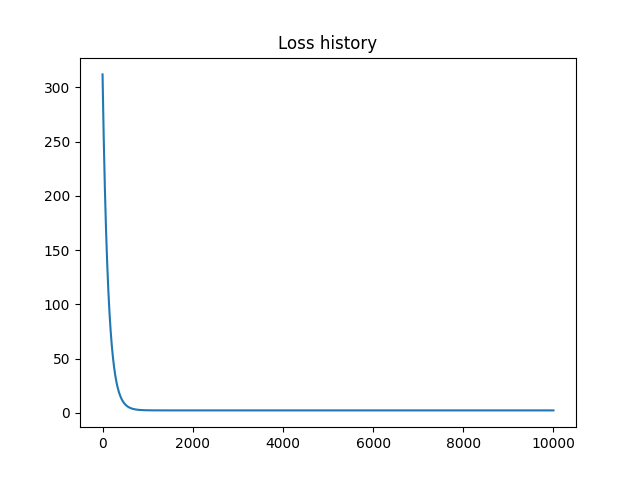
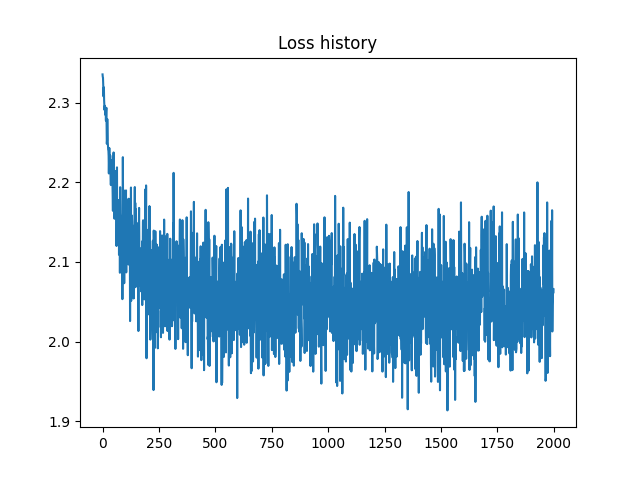
Ex_2

diff --git a/src/seminar2.py b/src/seminar2.py
@@ -3,7 +3,7 @@ import datetime
 import os.path
 
 import numpy as np
-from src.test_utils import get_preprocessed_data, visualize_weights, visualize_loss
+from test_utils import get_preprocessed_data, visualize_weights, visualize_loss
 
 
 def softmax(Z: np.array) -> np.array:
@@ -13,7 +13,10 @@ def softmax(Z: np.array) -> np.array:
     :param Z: 2D array, shape (N, C)
     :return: softmax 2D array, shape (N, C)
     """
-    return Z
+    exps = np.exp(Z)
+    exps_sum = exps.sum(axis=-1, keepdims=True)
+
+    return exps / exps_sum
 
 
 def softmax_loss_and_grad(W: np.array, X: np.array, y: np.array, reg: float) -> tuple:
@@ -31,13 +34,19 @@ def softmax_loss_and_grad(W: np.array, X: np.array, y: np.array, reg: float) -> 
     dL_dW = np.zeros_like(W)
     # *****START OF YOUR CODE*****
     # 1. Forward pass, compute loss as sum of data loss and regularization loss [sum(W ** 2)]
-
+    N = len(X)
+    Z = np.dot(X, W)
+    S = softmax(Z)
     # 2. Backward pass, compute intermediate dL/dZ
-
+    loss = - np.log(S[range(N), y]).mean()
+    loss += np.sum(W**2)
+    dz = S.copy()
+    dz[range(N), y] -=1
     # 3. Compute data gradient dL/dW
-
+    dL_dW = X.T @ dz
+    dL_dW /= N
     # 4. Compute regularization gradient
-
+    dL_dW += (2*W)
     # 5. Return loss and sum of data + reg gradients
 
     # *****END OF YOUR CODE*****
@@ -88,7 +97,8 @@ class SoftmaxClassifier:
             # replacement is faster than sampling without replacement.              #
             #########################################################################
             # *****START OF YOUR CODE (DO NOT DELETE/MODIFY THIS LINE)*****
-
+            batch_indices = np.random.choice(num_train, size=batch_size, replace=True)
+            X_batch, y_batch = X[batch_indices, :], y[batch_indices]
             # *****END OF YOUR CODE (DO NOT DELETE/MODIFY THIS LINE)*****
 
             # evaluate loss and gradient
@@ -101,7 +111,7 @@ class SoftmaxClassifier:
             # Update the weights using the gradient and the learning rate.          #
             #########################################################################
             # *****START OF YOUR CODE (DO NOT DELETE/MODIFY THIS LINE)*****
-
+            self.W -= learning_rate * grad
             # *****END OF YOUR CODE (DO NOT DELETE/MODIFY THIS LINE)*****
             if it % 100 == 0:
                 if verbose:
@@ -133,11 +143,11 @@ def train():
     # weights images must look like in lecture slides
 
     # ***** START OF YOUR CODE *****
-    learning_rate = 0
-    reg = 0
-    num_iters = 0
-    batch_size = 0
-    # ******* END OF YOUR CODE ************
+    learning_rate = 0.001
+    reg = 0.001
+    num_iters = 2000
+    batch_size = 128
+    # ******* END OF YOUR CODE ************pipi
 
     (x_train, y_train), (x_test, y_test) = get_preprocessed_data()
     cls = SoftmaxClassifier()

diff --git a/output/seminar2/report.md b/output/seminar2/report.md
@@ -1,14 +1,14 @@
 # Training Softmax classifier  
-datetime: 2023-09-05 20:00:50  
-Well done in: 24 seconds  
-learning_rate = 0  
-reg = 0  
-num_iters = 0  
-batch_size = 0  
+datetime: 2023-10-06 21:36:16  
+Well done in: 2 seconds  
+learning_rate = 0.001  
+reg = 0.001  
+num_iters = 2000  
+batch_size = 128  
 
-Final loss: 2.3024465755633834   
-Train accuracy: 0.24694   
-Test accuracy: 0.2496  
+Final loss: 2.06572824698198   
+Train accuracy: 0.34596   
+Test accuracy: 0.3461  
     
 <img src="weights.png">  
 <br>
